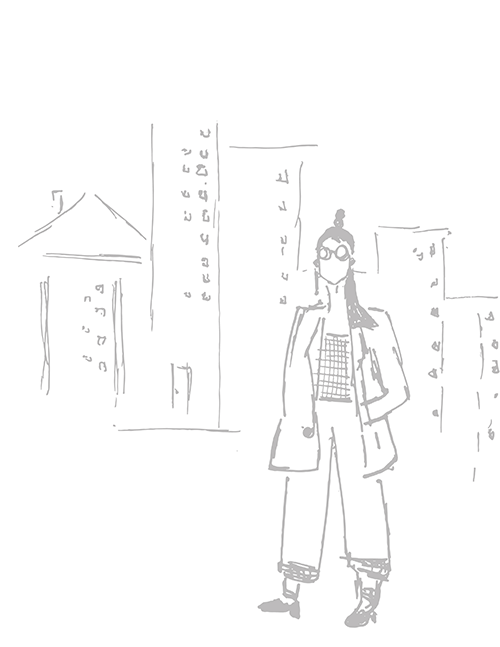
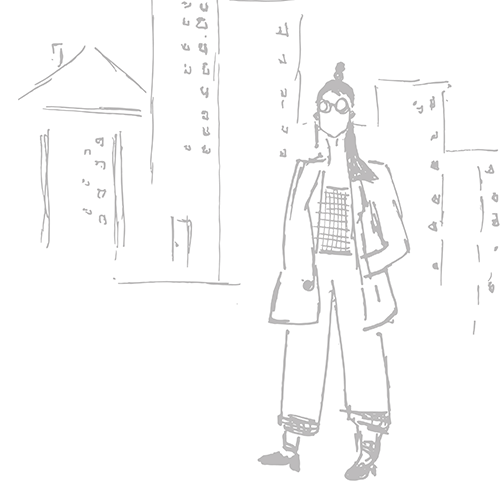
Update the position
The position of the text was updated

diff --git a/_includes/case-study.html b/_includes/case-study.html
@@ -1,5 +1,5 @@
 <div class="case-study-card">
-  <div class="ib relative">
+  <div class="ib relative text">
     <h2 itemprop="heading" class="wrapper mega push-none">{{page.heading1}}</h2>
     <p itemprop="subheading" class="wrapper pad-t-1-2 milli push-none work-sans bold">{{page.category}}</p>
     <p itemprop="subheading" class="wrapper pad-t-1-2 milli push-none lato">{{page.subHeading1}}</p>
@@ -20,7 +20,7 @@
     </figure>
   </div>
 
-  <div class="ib relative">
+  <div class="ib relative text">
     <h2 itemprop="heading" class="wrapper kilo push-none">{{page.heading2}}</h2>
     <p itemprop="subheading" class="wrapper pad-t-1-2 milli push-none lato">{{page.subHeading2}}</p>
     <p itemprop="process" class="wrapper pad-t milli push-none lato">{{page.process2}}</p>
@@ -34,7 +34,7 @@
     </figure>
   </div>
 
-  <div class="relative ib">
+  <div class="relative ib text">
     <h2 itemprop="heading" class="wrapper pad-t-2 kilo push-none">{{page.heading3}}</h2>
     <p itemprop="subheading" class="wrapper pad-t-1-2 milli push-none lato">{{page.subHeading3}}</p>
     <p itemprop="process" class="wrapper pad-t milli push-none lato">{{page.process3}}</p>
@@ -48,7 +48,7 @@
     </figure>
   </div>
 
-  <div class="relative ib">
+  <div class="relative ib text">
     <h2 itemprop="heading" class="wrapper pad-t-2 kilo push-none">{{page.heading4}}</h2>
     <p itemprop="subheading" class="wrapper pad-t-1-2 milli push-none lato">{{page.subHeading4}}</p>
     <p itemprop="process" class="wrapper pad-t milli push-none lato">{{page.process4}}</p>

diff --git a/css/main.css b/css/main.css
@@ -278,6 +278,10 @@ li {
     transform: translateY(0);
   }
 
+  .text {
+    top: 2em;
+  }
+
 }
 
 @media only screen and (min-width: 36em) {
@@ -293,8 +297,13 @@ li {
   header .logo {
     text-align: left;
   }
+
   .arrow {
     display: block;
+  }
+
+  .text {
+    top: -2em;
   }
 
   .bg-image {
